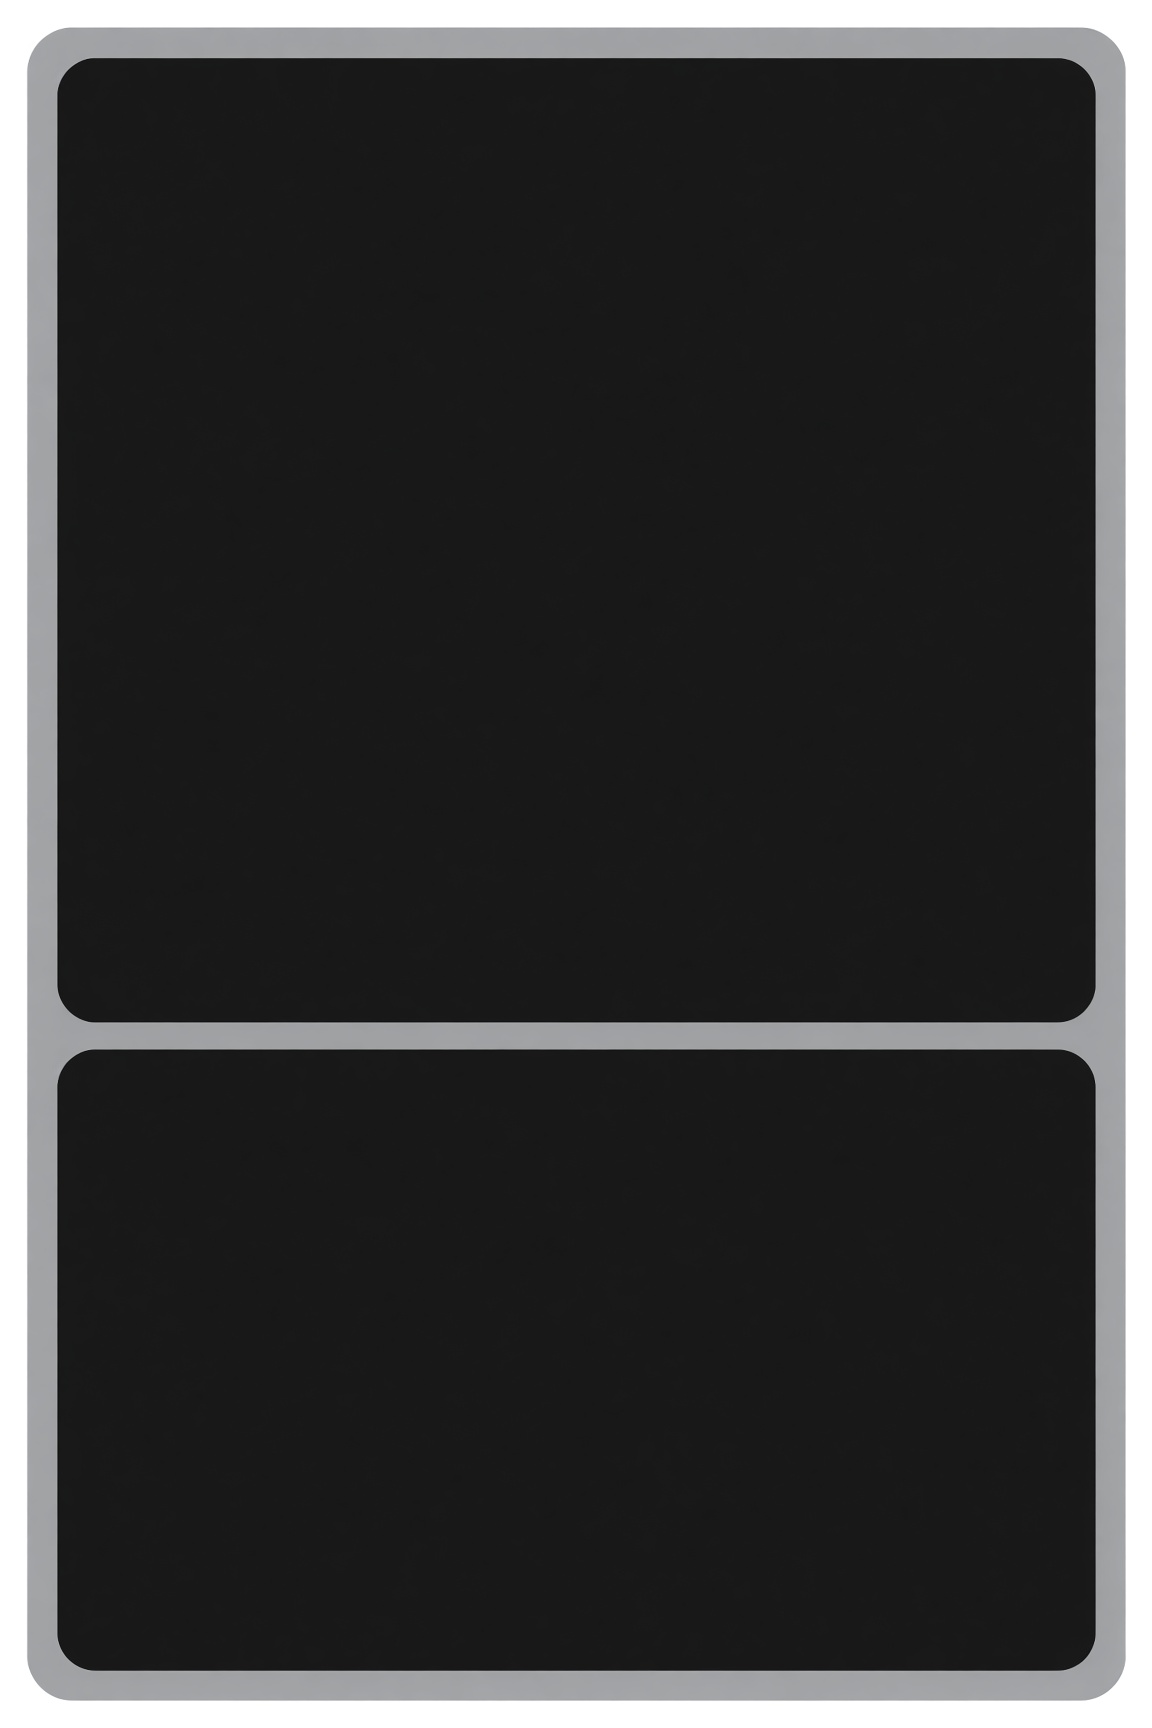
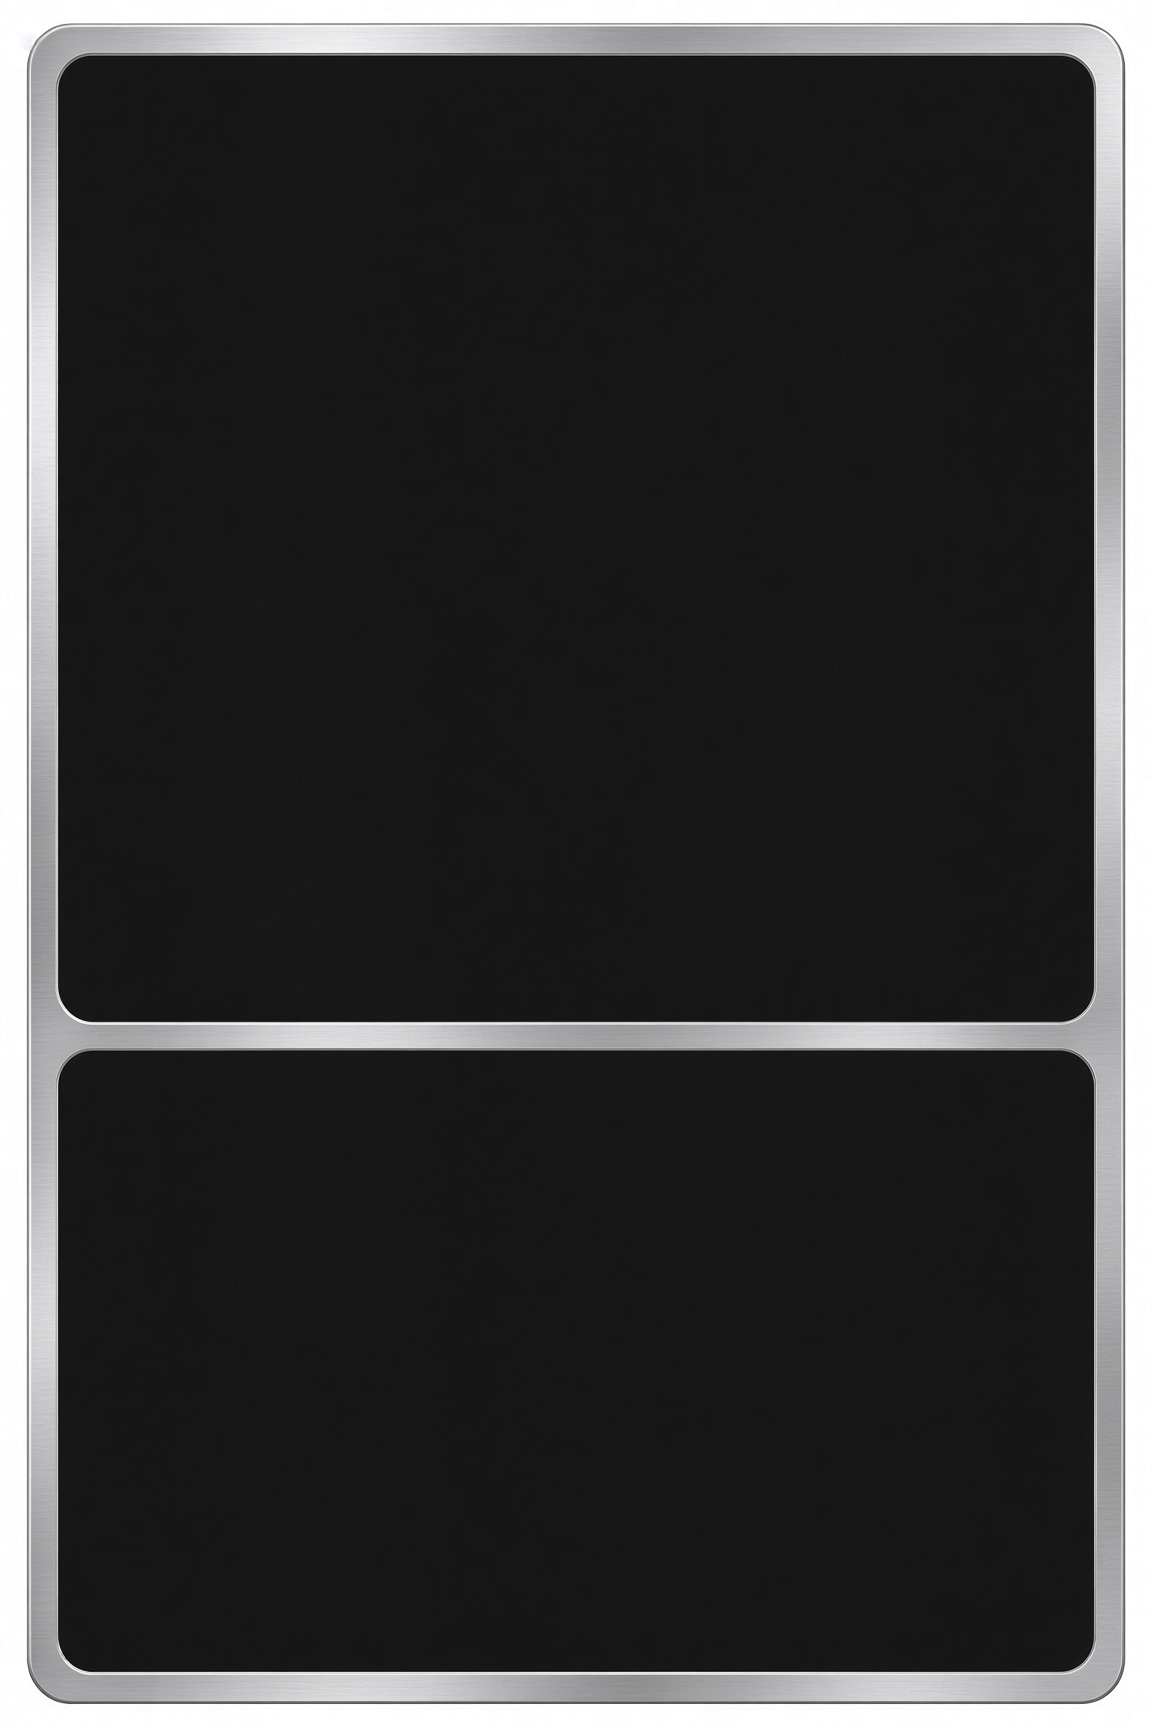
Give rarity frame borders a real metal material instead of flat color
Flat solid-color borders (v2.0) read as cheap once generated. Replaced
with a genuine polished-metal treatment - brushed texture, directional
specular highlight, real light-to-dark tonal range - confirmed by
comparing a flat #22c55e fill against a real-gradient version and
picking the latter. Structure (two boxes, ~56%/36% split, no
ornamentation) is unchanged. Common and Uncommon frames updated to the
accepted polished-metal look; Rare/Epic/Legendary prompts added in the
same style, not yet generated.

Claude-Session: https://claude.ai/code/session_01TCw41Q134w5GWJTmp6HoxK

diff --git a/grok-card-prompts.md b/grok-card-prompts.md
@@ -299,23 +299,25 @@ One reusable frame/border shell per rarity, no card-specific content — the sec
 - **Card fills the canvas edge to edge.** The accepted reference (`branding/assets/Rarity/grok-image-12c745e5-...jpg`) has only ~2–3% margin around the card and a clearly visible ~3%-width border — not a small card floating on a padded canvas (a rejected candidate had ~10% dead margin on each side and a border so thin it nearly disappeared).
 - **Box proportions: ~56% art, ~36% description**, with the remaining ~8% as top/bottom border margin. Measured directly off the accepted reference and cross-checked against a real product-photo mockup the box sizing was compared to — both land within a point of each other, so this split is confirmed right, not a guess.
 - **Interior fill color no longer matters and is not specified.** Earlier versions of this doc demanded an exact `#0b120e` match for chroma-keying purposes. That was solving a problem the current compositor design doesn't have: both boxes get fully painted over by code (art image in box 1, a drawn panel + text in box 2), so whatever flat color Grok renders is invisible in the final card either way. Plain black (what the accepted reference happens to use) is fine.
-- **No ornamentation.** No corner brackets, no metal bevel/texture, no glow, no icons — a single flat-colored border stroke, rounded corners, nothing else. This is a deliberate simplification, not a placeholder; don't add detail back in without discussing it first.
+- **No ornamentation.** No corner brackets, no gem sockets, no icons — a single border stroke, rounded corners, nothing else besides the material treatment below. This is a deliberate simplification, not a placeholder; don't add detail back in without discussing it first.
 - **No exact-pixel demand** (carried over from the v1.x lesson — Grok doesn't honor it). Generate at a portrait ratio close to 2:3; resize to the compositor's target size in code.
 
-### Common frame (`#9ca3af`)
-> A clean, minimalist trading-card border, filling almost the entire canvas edge to edge with only a small rounded outer margin (~2–3% of the width) — a modern, Pokémon-style card border, not a fantasy RPG frame. A single flat-colored border stroke in muted silver-grey (`#9ca3af`), roughly 3% of the card's width thick, rounded corners. No corner ornaments, no metal bevel or texture, no glow, no gem sockets, no icons. Exactly two bordered boxes stacked vertically, separated by a plain gap in the same border color, nothing else inside the frame: (1) a large box at the top, ~56% of the card height, for the illustration; (2) a second box below it, ~36% of the card height, for card text. Both boxes are a plain flat dark fill (color unimportant — black is fine), no gradient, no texture. No text, no card name, no numbers, no character, no scene. Portrait orientation, roughly 2:3 aspect ratio.
+**v2.1 — real metal material, not a flat color fill (2026-09-14).** A flat solid-color border (literally what v2.0 asked for) read as cheap/boring once generated. Fixed by asking for the border to be a genuine polished metal material — brushed texture, a directional specular highlight, real light-to-dark tonal range — instead of one uniform hex value. Confirmed by comparison: a flat `#22c55e` fill looked flat; a version with real gradient (sampled off the accepted Uncommon frame, ranging from a deep shadowed `(23,93,59)` up to a bright `(113,196,152)` highlight) looked noticeably more premium and is the one that got picked. This is a material/rendering change only — the two-box structure, proportions, and no-ornamentation rule above are unchanged. Common was accepted with a slightly earlier version of this wording (specular highlight, no explicit tonal-range callout); the other four tiers below use the refined wording that produced the accepted Uncommon frame, so Common could optionally be regenerated to match exactly, but isn't required — what's shipped already reads well.
 
-### Uncommon frame (`#22c55e`)
-> Same minimalist two-box structure as the Common tier — thin flat border ~3% of the width, rounded corners, no ornamentation, art box ~56% height, description box ~36% height, plain flat dark box fills — but in terminal-green (`#22c55e`). No text, no card name, no numbers, no character, no scene. Portrait orientation, roughly 2:3 aspect ratio.
+### Common frame (`#9ca3af`)
+> A clean, two-box trading-card border filling almost the entire canvas edge to edge with only a small rounded outer margin (~2–3% of the width) — a modern, premium card border, not a fantasy RPG frame. A single border stroke, roughly 3% of the card's width thick, rendered as genuine polished silver metal — brushed metallic texture, a soft directional specular highlight running along its length, subtle reflected light and shadow giving it real dimension. No corner ornaments, no gem sockets, no icons — just a clean strip of believable metal, not a flat color fill. Exactly two bordered boxes stacked vertically inside the border, separated by a plain metallic gap in the same material: (1) a large box at the top, ~56% of the card height, for the illustration; (2) a second box below it, ~36% of the card height, for card text. Both boxes are a plain flat dark fill (color unimportant — black is fine), no texture inside the boxes themselves. No text, no card name, no numbers, no character, no scene. Portrait orientation, roughly 2:3 aspect ratio.
+
+### Uncommon frame (`#22c55e`) — accepted, shipped in `branding/assets/Rarity/uncommon.jpg`
+> A clean, two-box trading-card border filling almost the entire canvas edge to edge with only a small rounded outer margin (~2–3% of the width) — a modern, premium card border, not a fantasy RPG frame. A single border stroke, roughly 3% of the card's width thick, rendered as genuine polished metal in a rich emerald green — brushed metallic texture with real tonal range, from deep shadowed emerald in the recesses to a bright minty-green specular highlight along the light-catching edge, giving it visible depth rather than one flat color. No corner ornaments, no gem sockets, no icons — just a clean strip of believable metal. Exactly two bordered boxes stacked vertically inside the border, separated by a plain metallic gap in the same material: (1) a large box at the top, ~56% of the card height, for the illustration; (2) a second box below it, ~36% of the card height, for card text. Both boxes are a plain flat dark fill (color unimportant — black is fine), no texture inside the boxes themselves. No text, no card name, no numbers, no character, no scene. Portrait orientation, roughly 2:3 aspect ratio.
 
 ### Rare frame (`#3b82f6`)
-> Same minimalist two-box structure again — thin flat border ~3% of the width, rounded corners, no ornamentation, art box ~56% height, description box ~36% height, plain flat dark box fills — but in blue (`#3b82f6`). No text, no card name, no numbers, no character, no scene. Portrait orientation, roughly 2:3 aspect ratio.
+> A clean, two-box trading-card border filling almost the entire canvas edge to edge with only a small rounded outer margin (~2–3% of the width) — a modern, premium card border, not a fantasy RPG frame. A single border stroke, roughly 3% of the card's width thick, rendered as genuine polished metal in a rich sapphire blue — brushed metallic texture with real tonal range, from deep shadowed navy blue in the recesses to a bright sky-blue specular highlight along the light-catching edge, giving it visible depth rather than one flat color. No corner ornaments, no gem sockets, no icons — just a clean strip of believable metal. Exactly two bordered boxes stacked vertically inside the border, separated by a plain metallic gap in the same material: (1) a large box at the top, ~56% of the card height, for the illustration; (2) a second box below it, ~36% of the card height, for card text. Both boxes are a plain flat dark fill (color unimportant — black is fine), no texture inside the boxes themselves. No text, no card name, no numbers, no character, no scene. Portrait orientation, roughly 2:3 aspect ratio.
 
 ### Epic frame (`#a855f7`)
-> Same minimalist two-box structure again — thin flat border ~3% of the width, rounded corners, no ornamentation, art box ~56% height, description box ~36% height, plain flat dark box fills — but in purple (`#a855f7`). No text, no card name, no numbers, no character, no scene. Portrait orientation, roughly 2:3 aspect ratio.
+> A clean, two-box trading-card border filling almost the entire canvas edge to edge with only a small rounded outer margin (~2–3% of the width) — a modern, premium card border, not a fantasy RPG frame. A single border stroke, roughly 3% of the card's width thick, rendered as genuine polished metal in a rich amethyst purple — brushed metallic texture with real tonal range, from deep shadowed violet in the recesses to a bright lavender specular highlight along the light-catching edge, giving it visible depth rather than one flat color. No corner ornaments, no gem sockets, no icons — just a clean strip of believable metal. Exactly two bordered boxes stacked vertically inside the border, separated by a plain metallic gap in the same material: (1) a large box at the top, ~56% of the card height, for the illustration; (2) a second box below it, ~36% of the card height, for card text. Both boxes are a plain flat dark fill (color unimportant — black is fine), no texture inside the boxes themselves. No text, no card name, no numbers, no character, no scene. Portrait orientation, roughly 2:3 aspect ratio.
 
 ### Legendary frame (`#f59e0b`)
-> Same minimalist two-box structure again — thin flat border ~3% of the width, rounded corners, no ornamentation, art box ~56% height, description box ~36% height, plain flat dark box fills — but in gold (`#f59e0b`). No text, no card name, no numbers, no character, no scene. Portrait orientation, roughly 2:3 aspect ratio.
+> A clean, two-box trading-card border filling almost the entire canvas edge to edge with only a small rounded outer margin (~2–3% of the width) — a modern, premium card border, not a fantasy RPG frame. A single border stroke, roughly 3% of the card's width thick, rendered as genuine polished gold metal — brushed metallic texture with real tonal range, from deep shadowed bronze-gold in the recesses to a bright warm-gold specular highlight along the light-catching edge, giving it visible depth rather than one flat color, a real sense of it being precious/valuable metal befitting the top rarity tier. No corner ornaments, no gem sockets, no icons — just a clean strip of believable gold metal. Exactly two bordered boxes stacked vertically inside the border, separated by a plain metallic gap in the same material: (1) a large box at the top, ~56% of the card height, for the illustration; (2) a second box below it, ~36% of the card height, for card text. Both boxes are a plain flat dark fill (color unimportant — black is fine), no texture inside the boxes themselves. No text, no card name, no numbers, no character, no scene. Portrait orientation, roughly 2:3 aspect ratio.
 
 *(Mythic/Genesis frames: lowest priority, do last if at all — no shipped template currently uses either rarity.)*
 
